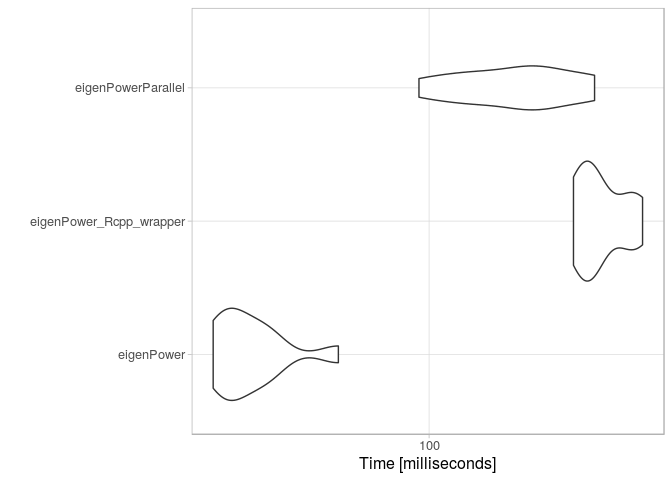
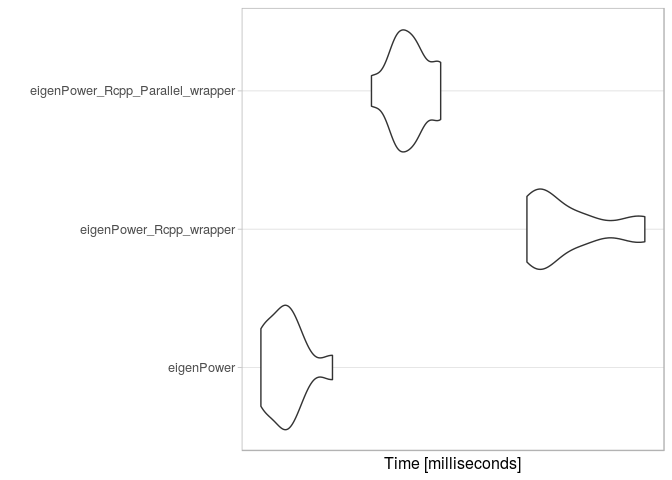
up

diff --git a/learn/02-mult-mat-Rcpp/source/eigenPower_RcppParallel.cpp b/learn/02-mult-mat-Rcpp/source/eigenPower_RcppParallel.cpp
@@ -144,3 +144,57 @@ NumericVector ProdMatVecParallel(NumericMatrix mat, NumericVector vec)
 
   return rvec;
 }
+
+// [[Rcpp::export()]]
+List eigenPower_Rcpp_Parallel(const NumericMatrix A, const NumericVector v0,
+  const double tol = 1e-6, const int maxit = 1e3,
+  const int verbose = 0)
+{
+  // containers
+  NumericVector v = v0;
+  NumericVector b = v0;
+        
+  // algorithm
+  double lambda0 = 0;
+  double lambda = lambda0;
+  double delta = 0;
+  bool converged = false;
+    
+  int it = 1;
+  for ( ; it <= maxit ; it++) { 
+    if(verbose > 1) { 
+      Rcout << " * it " << it << std::endl;
+    }
+    
+    b = ProdMatVecParallel(A, v);
+    v = b / innerNormParallel(b);
+    lambda = innerProductParallel(v, b);
+    
+    if(verbose > 2) { 
+      Rcout << "  -- lambda " << lambda << std::endl;
+    }
+      
+    delta = fabs((lambda - lambda0) / lambda);
+    if(delta < tol) {
+      break;
+    }
+      
+    lambda0 = lambda;
+  }
+    
+  converged = (it < maxit);
+
+  // return
+  List ret;
+  ret["v0"] = v0;
+  ret["tol"] = tol;
+  ret["maxit"] = maxit;
+  ret["it"] = it;
+  ret["delta"] = delta;
+  ret["converged"] = converged;
+    
+  ret["lambda"] = lambda;
+  ret["v"] = v;
+   
+  return(ret) ;
+}

diff --git a/learn/02-mult-mat-Rcpp/02-mult-mat-Rcpp.md b/learn/02-mult-mat-Rcpp/02-mult-mat-Rcpp.md
@@ -21,6 +21,8 @@ Andrey Ziyatdinov
 library(Rcpp)
 library(RcppArmadillo)
 
+library(Matrix)
+
 library(microbenchmark)
 ```
 
@@ -123,6 +125,19 @@ eigenPower_wrapper <- function(A, v0, ...)
 
 
 
+
+```r
+eigenPower_wrapper_Parallel <- function(A, v0, ...)
+{
+  stopifnot(!missing(A))
+  if(missing(v0)) {
+    v0 <- runif(ncol(A))
+  }
+  
+  eigenPower_Rcpp_Parallel(A, v0, ...)
+}
+```
+
 ## Big examples
 
 
@@ -193,17 +208,37 @@ ggplot(pf, aes(n, value, color = variable)) + geom_point() + geom_line()
 
 ## microbenchmark
 
+### Random matrix 
+
 
 ```r
-n <- 2000
+n <- 1000
 M <- matrix(runif(n * n), n, n)
 
 out <- microbenchmark(eigenPower = eigenPower(M), 
   eigenPower_Rcpp_wrapper = eigenPower_wrapper(M),
-  eigenPowerParallel = eigenPowerParallel(M),    
+  eigenPower_Rcpp_Parallel_wrapper = eigenPower_wrapper_Parallel(M),    
   times = 10)
 
 autoplot(out)  
 ```
 
 ![](figures/eigenPower_microbenchmark-1.png) 
+
+### 0.75 Sparse symmetric matrix
+
+
+```r
+n <- 1000
+#M <- matrix(runif(n * n), n, n)
+M <- as.matrix(rsparsematrix(n, n, 0.75, symmetric = TRUE))
+
+out <- microbenchmark(eigenPower = eigenPower(M), 
+  eigenPower_Rcpp_wrapper = eigenPower_wrapper(M),
+  eigenPower_Rcpp_Parallel_wrapper = eigenPower_wrapper_Parallel(M),    
+  times = 10)
+
+autoplot(out)  
+```
+
+![](figures/eigenPower_microbenchmark2-1.png) 
